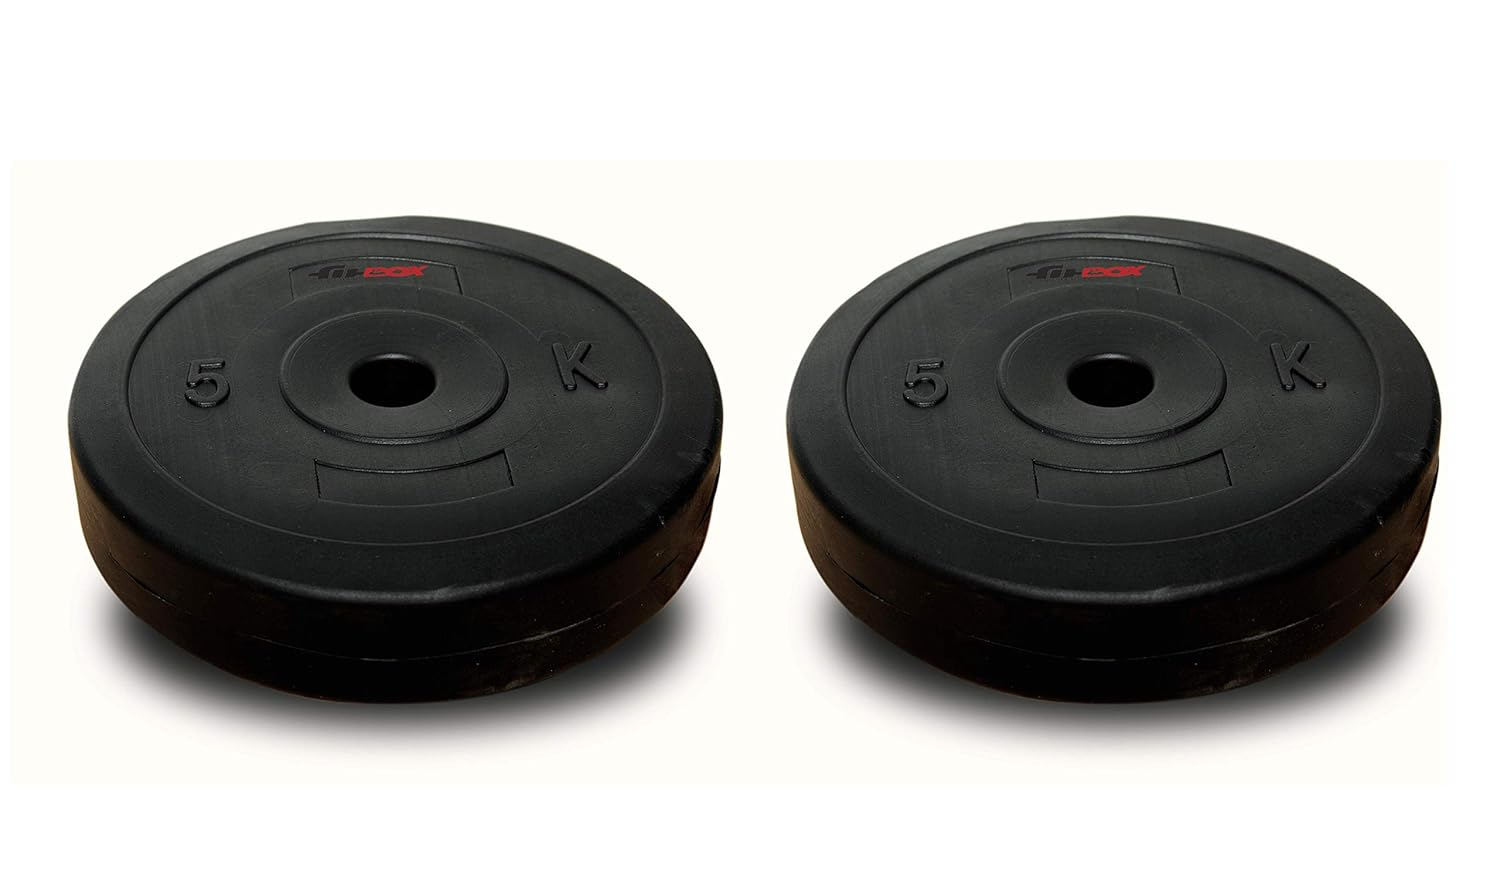
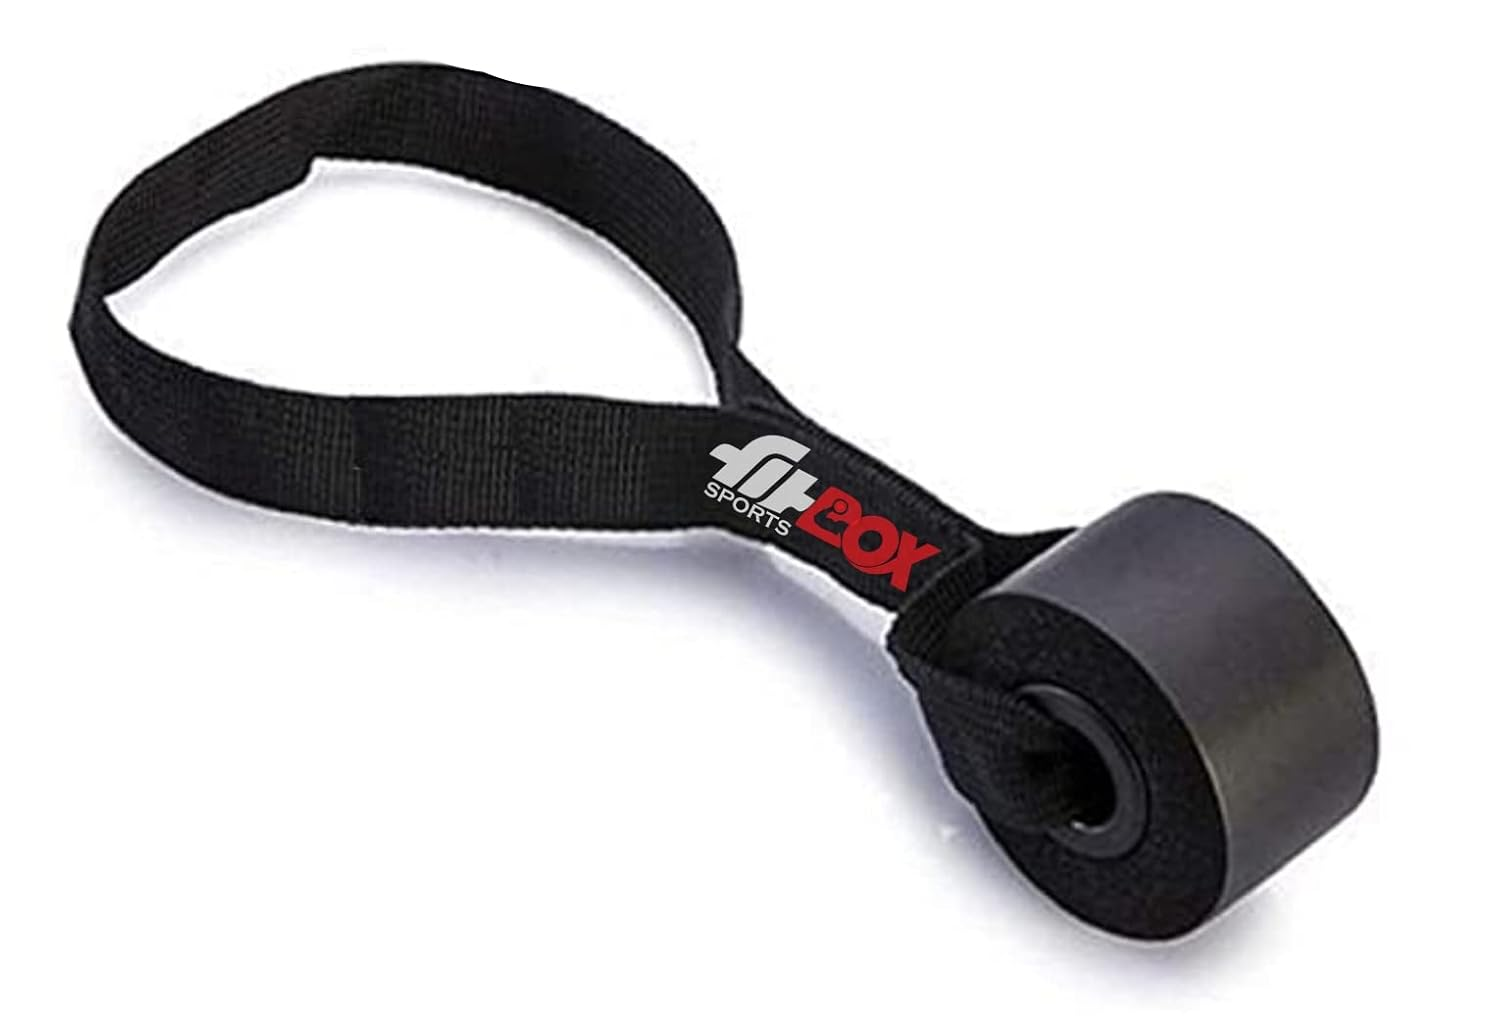
feat: initialize product catalog data and add associated product imagery

diff --git a/Frontend/src/data/products.js b/Frontend/src/data/products.js
@@ -2457,7 +2457,110 @@ const products = [
                 ]
             }
         ]
+    },
+    {
+        "id": 28,
+        "name": "FitBox Sports Heavy Duty Door Anchor - Great for Resistance Bands, Physical Therapy Bands, and Closed Loop Bands ",
+        "category": "",
+        "subCategory": "",
+        "isNew": false,
+        "isOutOfStock": false,
+        "qualities": [],
+        "longDesc": "",
+        "features": ["Heavy Duty Door Anchor - Great for Resistance Bands, Physical Therapy Bands, and Closed Loop Bands "],
+        "material": "",
+        "relatedIds": [],
+        "showcaseImages": [
+            "/Images/28.1.2.jpg",
+            "/Images/28.1.3.jpg",
+            "/Images/28.1.4.jpg"
+        ],
+        "imgSrc": "/Images/28.1.1.jpg",
+        "hoverImgSrc": "/Images/28.1.2.jpg",
+        "variants": [
+            {
+                "color": "Black",
+                "images": [
+                    "/Images/28.1.1.jpg",
+                    "/Images/28.1.2.jpg",
+                    "/Images/28.1.3.jpg",
+                    "/Images/28.1.4.jpg",
+                ],
+                "sizes": [
+                    {
+                        "name": "Heavy Duty Door Anchor",
+                        "price": 0,
+                        "oldPrice": 0,
+                        "weight": 50
+                    }
+                ]
+            }
+        ]
+    },
+    {
+  "id": 29,
+  "name": "",
+  "category": "",
+  "subCategory": "",
+  "isNew": false,
+  "isOutOfStock": false,
+  "qualities": [],
+  "longDesc": "",
+  "features": [],
+  "material": "",
+  "relatedIds": [],
+  "showcaseImages": [],
+  "imgSrc": "",
+  "hoverImgSrc": "",
+  "variants": [
+    {
+      "color": "",
+      "images": [],
+      "sizes": [
+        {
+          "name": "",
+          "price": 0,
+          "oldPrice": 0,
+          "weight": 0
+        }
+      ]
     }
+  ]
+}
 ];
 
 export default products;
+
+
+
+
+// {
+//   "id": 0,
+//   "name": "",
+//   "category": "",
+//   "subCategory": "",
+//   "isNew": false,
+//   "isOutOfStock": false,
+//   "qualities": [],
+//   "longDesc": "",
+//   "features": [],
+//   "material": "",
+//   "relatedIds": [],
+//   "showcaseImages": [],
+//   "imgSrc": "",
+//   "hoverImgSrc": "",
+//   "variants": [
+//     {
+//       "color": "",
+//       "images": [],
+//       "sizes": [
+//         {
+//           "name": "",
+//           "price": 0,
+//           "oldPrice": 0,
+//           "weight": 0
+//         }
+//       ]
+//     }
+//   ]
+// }